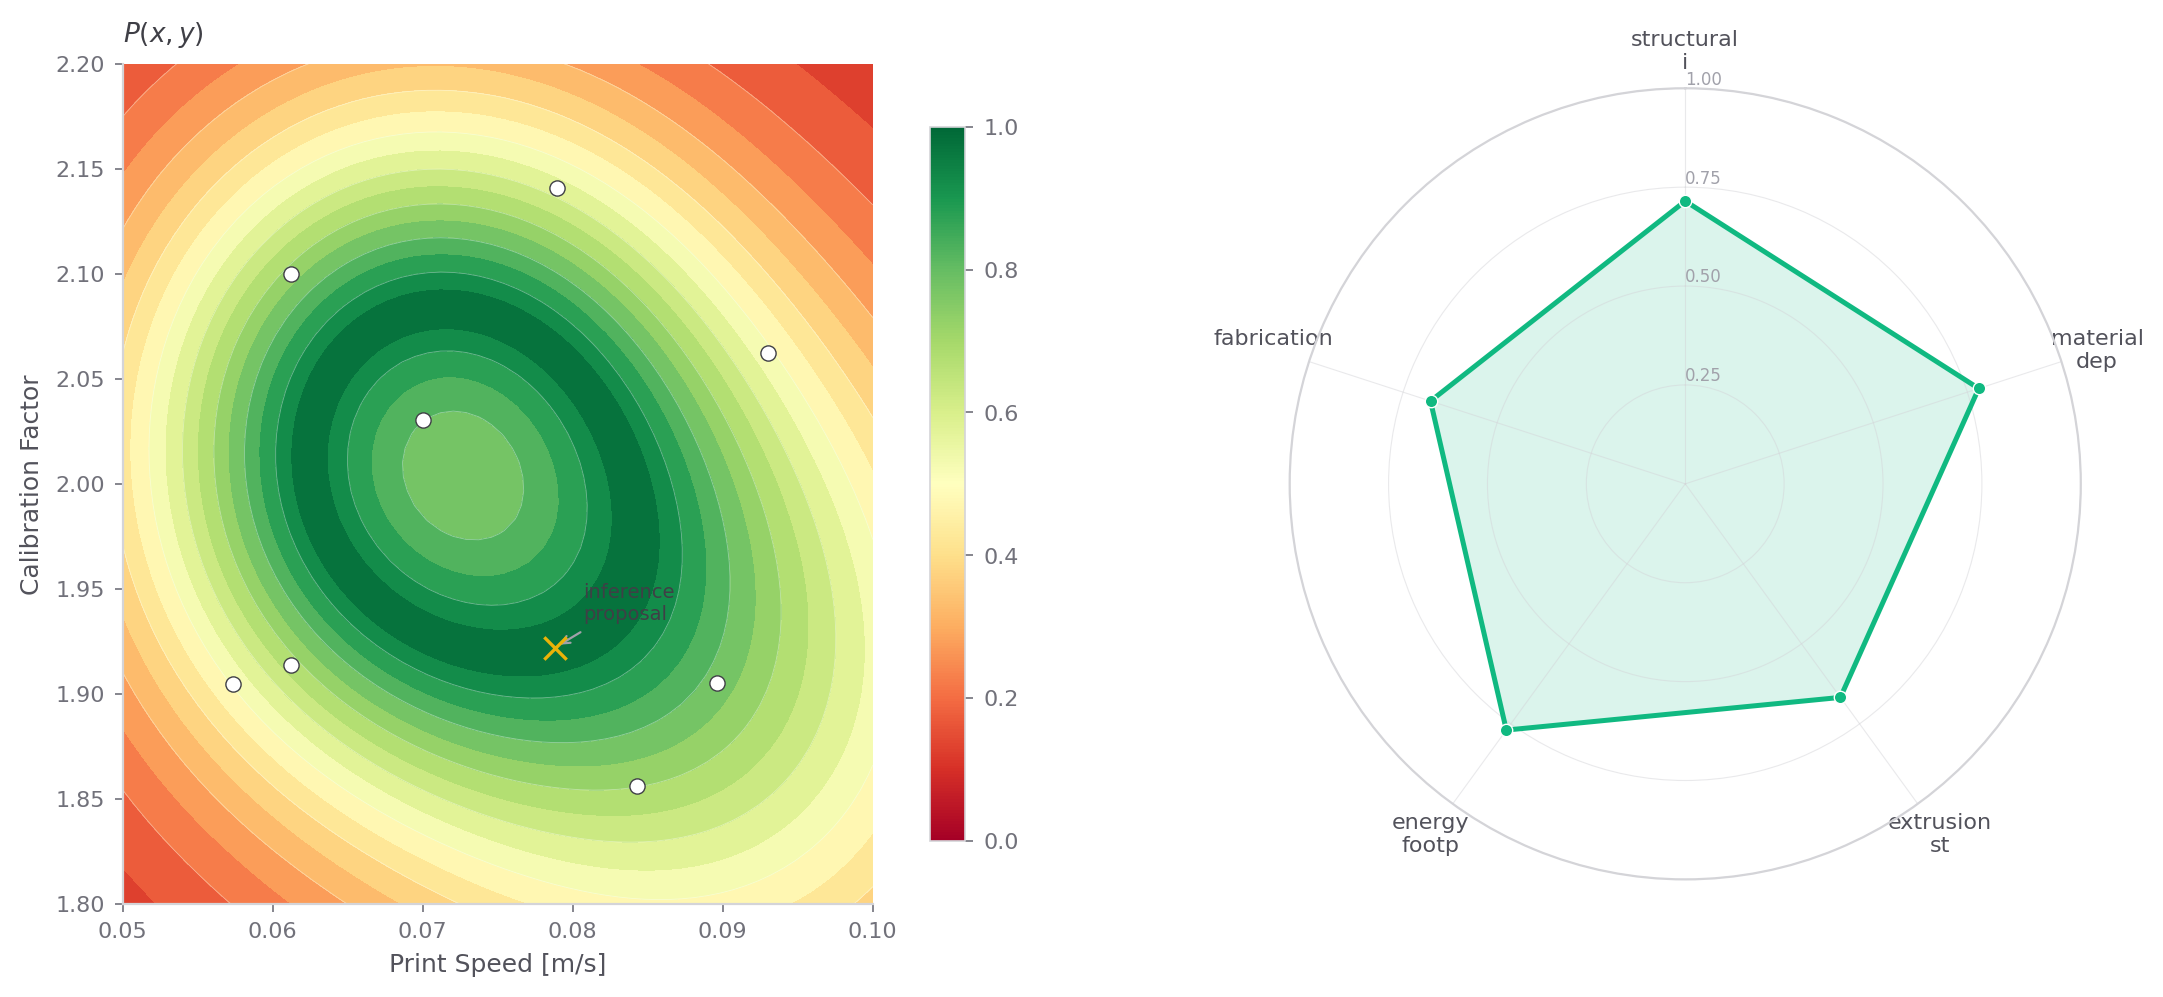
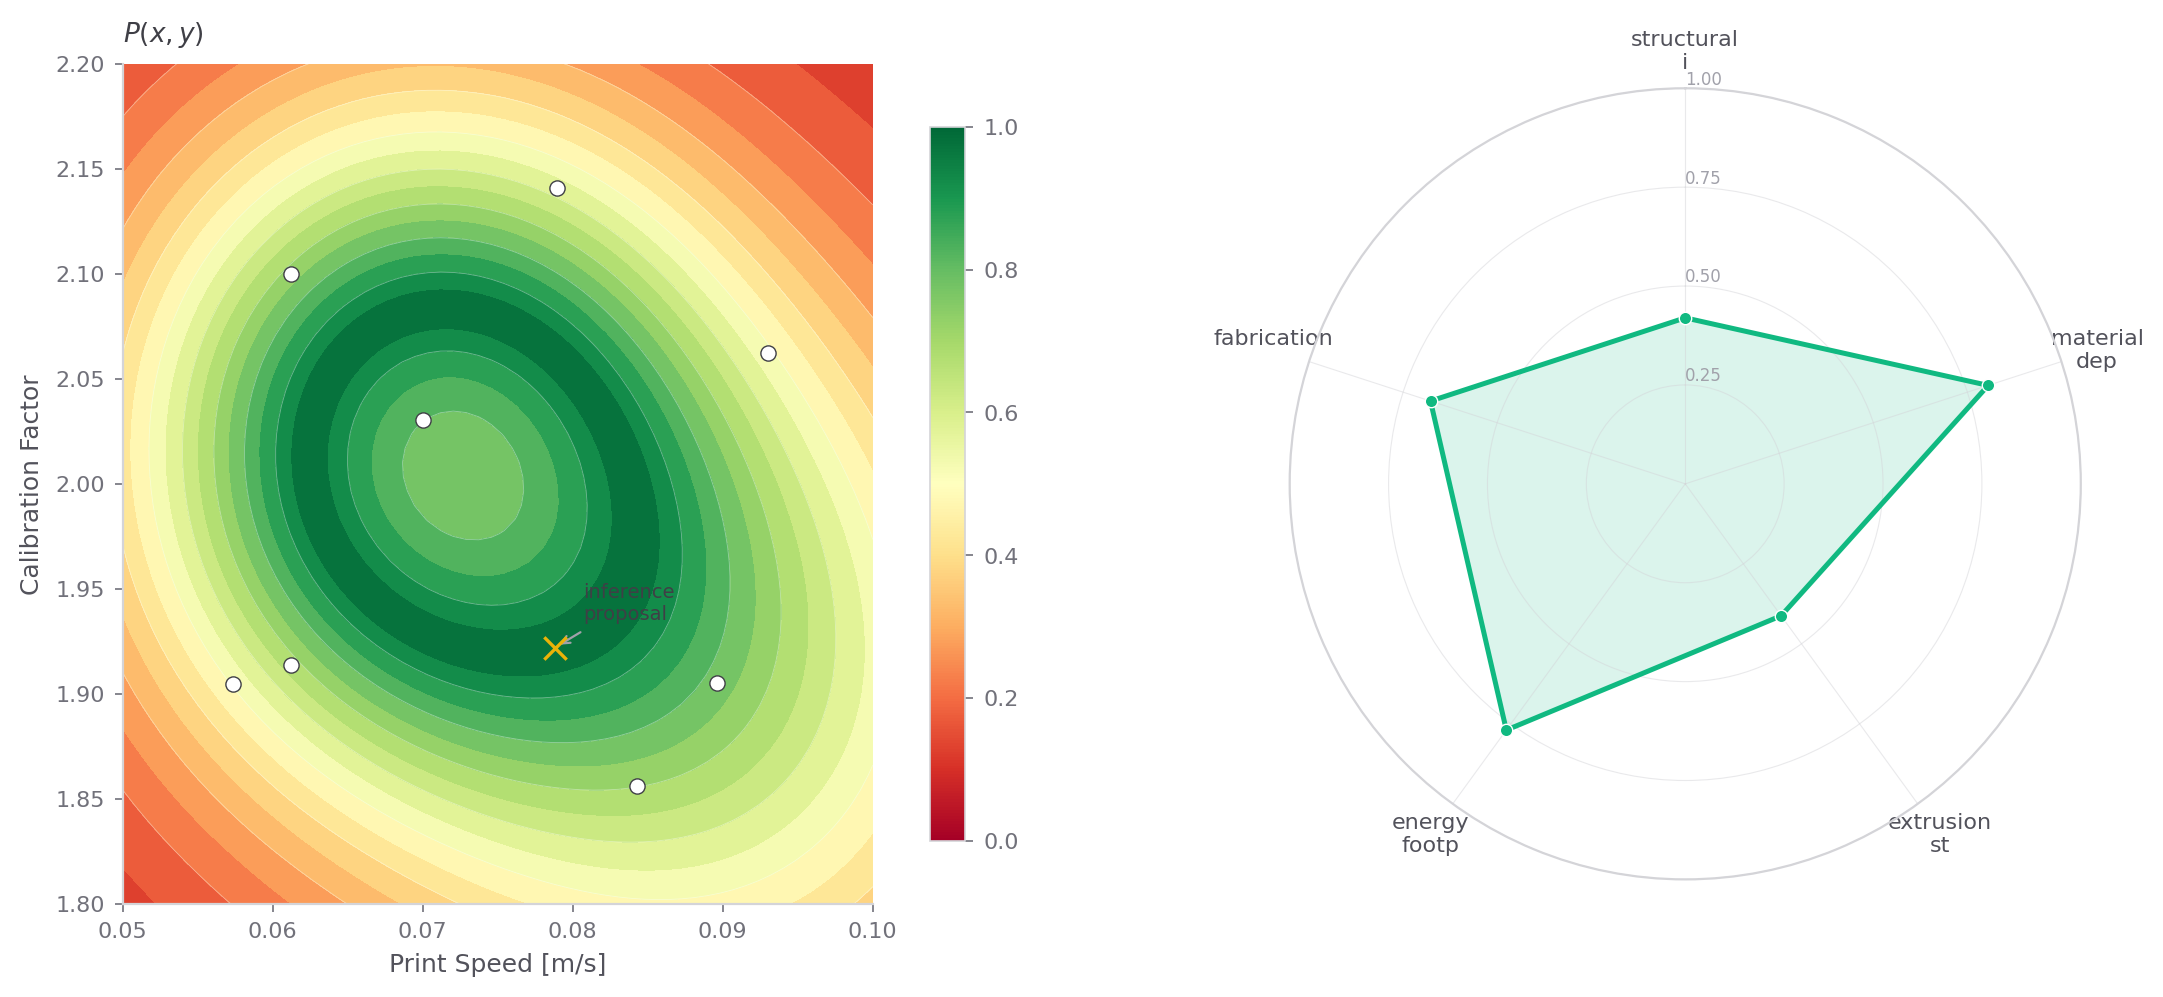
Align concept scripts to system method signatures

Changed region(s): [[0.6815, 0.3731, 0.9293, 0.7462], [0.6505, 0.1866, 0.8983, 0.4042]]

diff --git a/concepts/inference_result.py b/concepts/inference_result.py
@@ -4,7 +4,16 @@ Two panels:
   1. Performance topology with inference proposal marked
   2. Radar chart showing predicted performance attributes at the proposal
 
-Uses mock data by default. Pass predict_fn, score_fn, attribute_fns for real figures.
+Usage with real model::
+
+    cal = agent.calibration_system
+    main(
+        score_fn=cal._compute_normalised_perf_for_params,  # params → combined [0,1]
+        attribute_fn=cal._compute_perf_dict_for_params,    # params → {perf: float}
+        ...
+    )
+
+All callables accept a raw params dict. No wrapping needed.
 """
 from __future__ import annotations
 
@@ -67,9 +76,8 @@ def _radar_panel(
 
 
 def main(
-    predict_fn: Callable[[dict[str, Any]], dict[str, float]] | None = None,
-    score_fn: Callable[[dict[str, float], dict[str, Any]], float] | None = None,
-    attribute_fns: dict[str, Callable[[dict[str, float], dict[str, Any]], float]] | None = None,
+    score_fn: Callable[[dict[str, Any]], float] | None = None,
+    attribute_fn: Callable[[dict[str, Any]], dict[str, float | None]] | None = None,
     x_key: str = "V_fab",
     y_key: str = "calibrationFactor",
     x_bounds: tuple[float, float] = (0.05, 0.1),
@@ -84,27 +92,26 @@ def main(
     x_lo, x_hi = x_bounds
     y_lo, y_hi = y_bounds
 
-    if predict_fn is None:
-        def predict_fn(params):
+    if score_fn is None:
+        def score_fn(params):
             xn = (params.get(x_key, 0.075) - x_lo) / (x_hi - x_lo)
             yn = (params.get(y_key, 2.0) - y_lo) / (y_hi - y_lo)
             f = 0.7 * np.exp(-((xn-0.4)**2 + (yn-0.55)**2) / 0.15)
             f += 0.35 * np.exp(-((xn-0.8)**2 + (yn-0.25)**2) / 0.2)
-            return {"feature": float(np.clip(f, 0, 1))}
-
-    if score_fn is None:
-        def score_fn(features, params):
-            f = features.get("feature", 0.0)
             return float(np.clip(1.0 - abs(f - 0.65) / 0.7, 0, 1))
 
-    if attribute_fns is None:
-        attribute_fns = {
-            "structural\nintegrity": lambda feat, p: float(np.clip(feat.get("feature", 0) * 1.1, 0, 1)),
-            "material\ndeposition": lambda feat, p: float(np.clip(0.9 - abs(feat.get("feature", 0) - 0.5) * 0.8, 0, 1)),
-            "extrusion\nstability": lambda feat, p: float(np.clip(feat.get("feature", 0) * 0.95 + 0.05, 0, 1)),
-            "energy\nfootprint": lambda feat, p: float(np.clip(1.0 - (p.get(x_key, 0.075) - x_lo) / (x_hi - x_lo) * 0.4, 0, 1)),
-            "fabrication\ntime": lambda feat, p: float(np.clip(0.85 - (p.get(x_key, 0.075) - x_lo) / (x_hi - x_lo) * 0.3, 0, 1)),
-        }
+    if attribute_fn is None:
+        def attribute_fn(params):
+            xn = (params.get(x_key, 0.075) - x_lo) / (x_hi - x_lo)
+            yn = (params.get(y_key, 2.0) - y_lo) / (y_hi - y_lo)
+            f = 0.7 * np.exp(-((xn-0.4)**2 + (yn-0.55)**2) / 0.15)
+            return {
+                "structural\nintegrity": float(np.clip(f * 1.1, 0, 1)),
+                "material\ndeposition": float(np.clip(0.9 - abs(f - 0.5) * 0.8, 0, 1)),
+                "extrusion\nstability": float(np.clip(f * 0.95 + 0.05, 0, 1)),
+                "energy\nfootprint": float(np.clip(1.0 - xn * 0.4, 0, 1)),
+                "fabrication\ntime": float(np.clip(0.85 - xn * 0.3, 0, 1)),
+            }
 
     xs = np.linspace(x_lo, x_hi, resolution)
     ys = np.linspace(y_lo, y_hi, resolution)
@@ -115,8 +122,7 @@ def main(
             params = dict(fixed)
             params[x_key] = float(xs[i])
             params[y_key] = float(ys[j])
-            features = predict_fn(params)
-            perf_grid[j, i] = score_fn(features, params)
+            perf_grid[j, i] = score_fn(params)
 
     if experiments is None:
         np.random.seed(42)
@@ -134,10 +140,9 @@ def main(
     opt_params = dict(fixed)
     opt_params[x_key] = float(opt_xv)
     opt_params[y_key] = float(opt_yv)
-    opt_features = predict_fn(opt_params)
-
-    attr_names = list(attribute_fns.keys())
-    attr_scores = [attribute_fns[name](opt_features, opt_params) for name in attr_names]
+    attr_dict = attribute_fn(opt_params)
+    attr_names = list(attr_dict.keys())
+    attr_scores = [float(attr_dict[k] or 0) for k in attr_names]
 
     # ── Figure: topology + radar ──
     apply_style()

diff --git a/concepts/exploration_acquisition.py b/concepts/exploration_acquisition.py
@@ -5,7 +5,17 @@ Three side-by-side topologies showing the κ-blend:
   2. Performance P(x, y)     — where quality is high
   3. Acquisition A(x, y)     — what the optimizer sees
 
-Uses mock data by default. Pass evidence_fn, predict_fn, score_fn for real figures.
+Usage with real model::
+
+    cal = agent.calibration_system
+    main(
+        evidence_fn=...,  # params → evidence gain float (from KDE)
+        score_fn=cal._compute_normalised_perf_for_params,  # params → combined [0,1]
+        kappa=0.5,
+        ...
+    )
+
+All callables accept a raw params dict. No wrapping needed.
 """
 from __future__ import annotations
 
@@ -30,8 +40,7 @@ PLOTS_DIR.mkdir(exist_ok=True)
 
 def main(
     evidence_fn: Callable[[dict[str, Any]], float] | None = None,
-    predict_fn: Callable[[dict[str, Any]], dict[str, float]] | None = None,
-    score_fn: Callable[[dict[str, float], dict[str, Any]], float] | None = None,
+    score_fn: Callable[[dict[str, Any]], float] | None = None,
     kappa: float = 0.5,
     x_key: str = "V_fab",
     y_key: str = "calibrationFactor",
@@ -56,17 +65,12 @@ def main(
             e += 0.3 * np.exp(-((xn-0.5)**2 + (yn-0.5)**2) / 0.15)
             return float(np.clip(e, 0, 1))
 
-    if predict_fn is None:
-        def predict_fn(params):
+    if score_fn is None:
+        def score_fn(params):
             xn = (params.get(x_key, 0.075) - x_lo) / (x_hi - x_lo)
             yn = (params.get(y_key, 2.0) - y_lo) / (y_hi - y_lo)
             f = 0.7 * np.exp(-((xn-0.4)**2 + (yn-0.55)**2) / 0.15)
             f += 0.35 * np.exp(-((xn-0.8)**2 + (yn-0.25)**2) / 0.2)
-            return {"feature": float(np.clip(f, 0, 1))}
-
-    if score_fn is None:
-        def score_fn(features, params):
-            f = features.get("feature", 0.0)
             return float(np.clip(1.0 - abs(f - 0.65) / 0.7, 0, 1))
 
     xs = np.linspace(x_lo, x_hi, resolution)
@@ -82,8 +86,7 @@ def main(
             params[x_key] = float(xs[i])
             params[y_key] = float(ys[j])
             ev = evidence_fn(params)
-            features = predict_fn(params)
-            perf = score_fn(features, params)
+            perf = score_fn(params)
             evidence_grid[j, i] = ev
             perf_grid[j, i] = perf
             acq_grid[j, i] = (1 - kappa) * perf + kappa * ev

diff --git a/concepts/performance_topology.py b/concepts/performance_topology.py
@@ -4,7 +4,17 @@
   Panel 2: Marginal performance P(x) + P(y) stacked — RdYlGn gradient fill
   Panel 3: Performance topology P(x,y) — RdYlGn
 
-Mirrors the evidence concept layout. Uses shared panels from panels.py.
+Usage with real model::
+
+    cal = agent.calibration_system
+    main(
+        predict_fn=cal._compute_perf_dict_for_params,   # params → {perf: float}
+        score_fn=cal._compute_normalised_perf_for_params, # params → combined [0,1]
+        ...
+    )
+
+Both accept a raw params dict — no normalization or wrapping needed.
+The plot fixes non-plotted params and sweeps the two axis params.
 """
 from __future__ import annotations
 
@@ -29,7 +39,7 @@ PLOTS_DIR.mkdir(exist_ok=True)
 
 def main(
     predict_fn: Callable[[dict[str, Any]], dict[str, float]] | None = None,
-    score_fn: Callable[[dict[str, float], dict[str, Any]], float] | None = None,
+    score_fn: Callable[[dict[str, Any]], float] | None = None,
     feature_code: str = "extrusion_consistency",
     target_value: float = 0.65,
     x_key: str = "V_fab",
@@ -56,7 +66,8 @@ def main(
             return {feature_code: float(np.clip(f, 0, 1))}
 
     if score_fn is None:
-        def score_fn(features, params):
+        def score_fn(params):
+            features = predict_fn(params)
             f = features.get(feature_code, 0.0)
             return float(np.clip(1.0 - abs(f - target_value) / 0.7, 0, 1))
 
@@ -72,7 +83,7 @@ def main(
             params[y_key] = float(ys[j])
             features = predict_fn(params)
             feat_grid[j, i] = features.get(feature_code, 0.0)
-            perf_grid[j, i] = score_fn(features, params)
+            perf_grid[j, i] = score_fn(params)
 
     perf_along_x = np.mean(perf_grid, axis=0)
     perf_along_y = np.mean(perf_grid, axis=1)